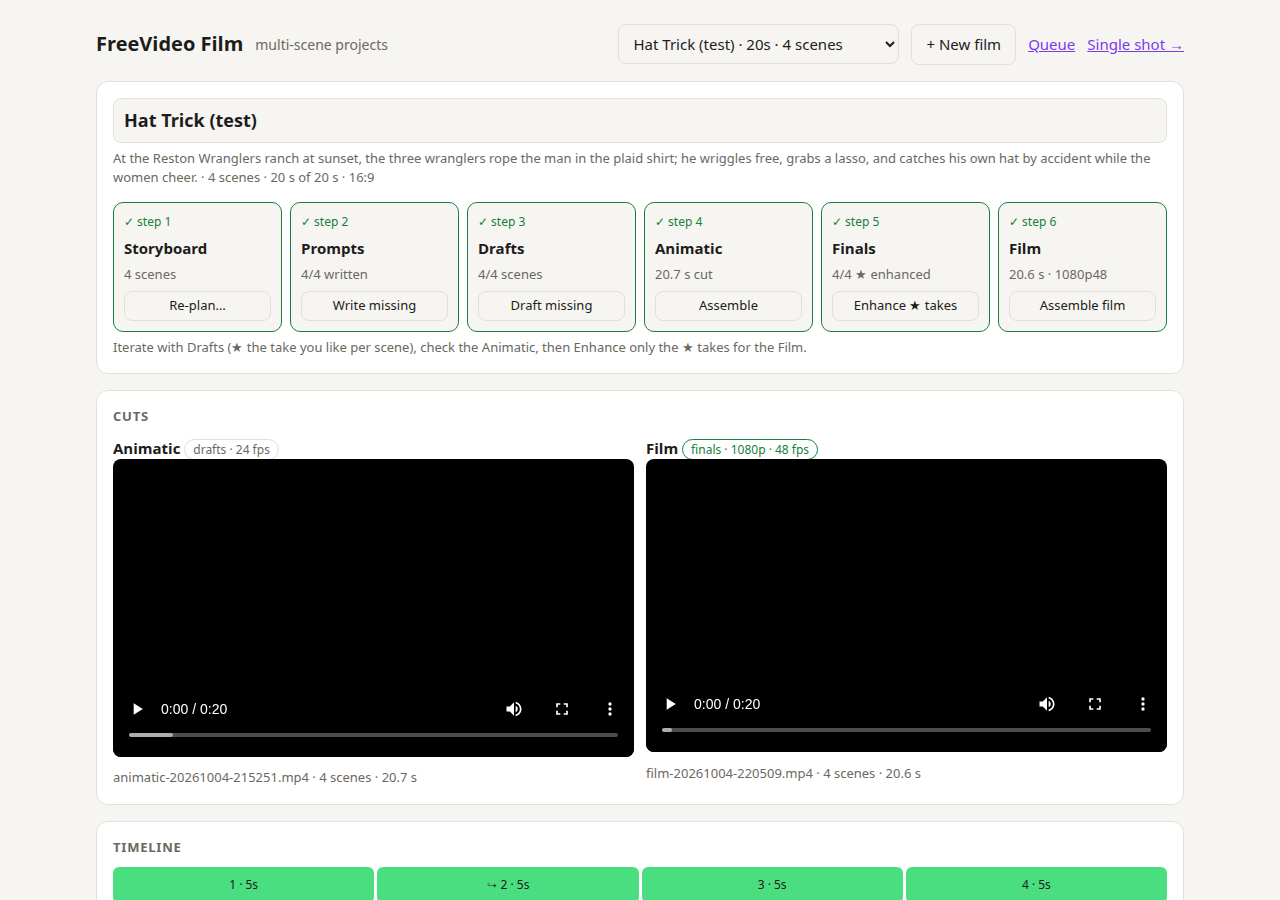
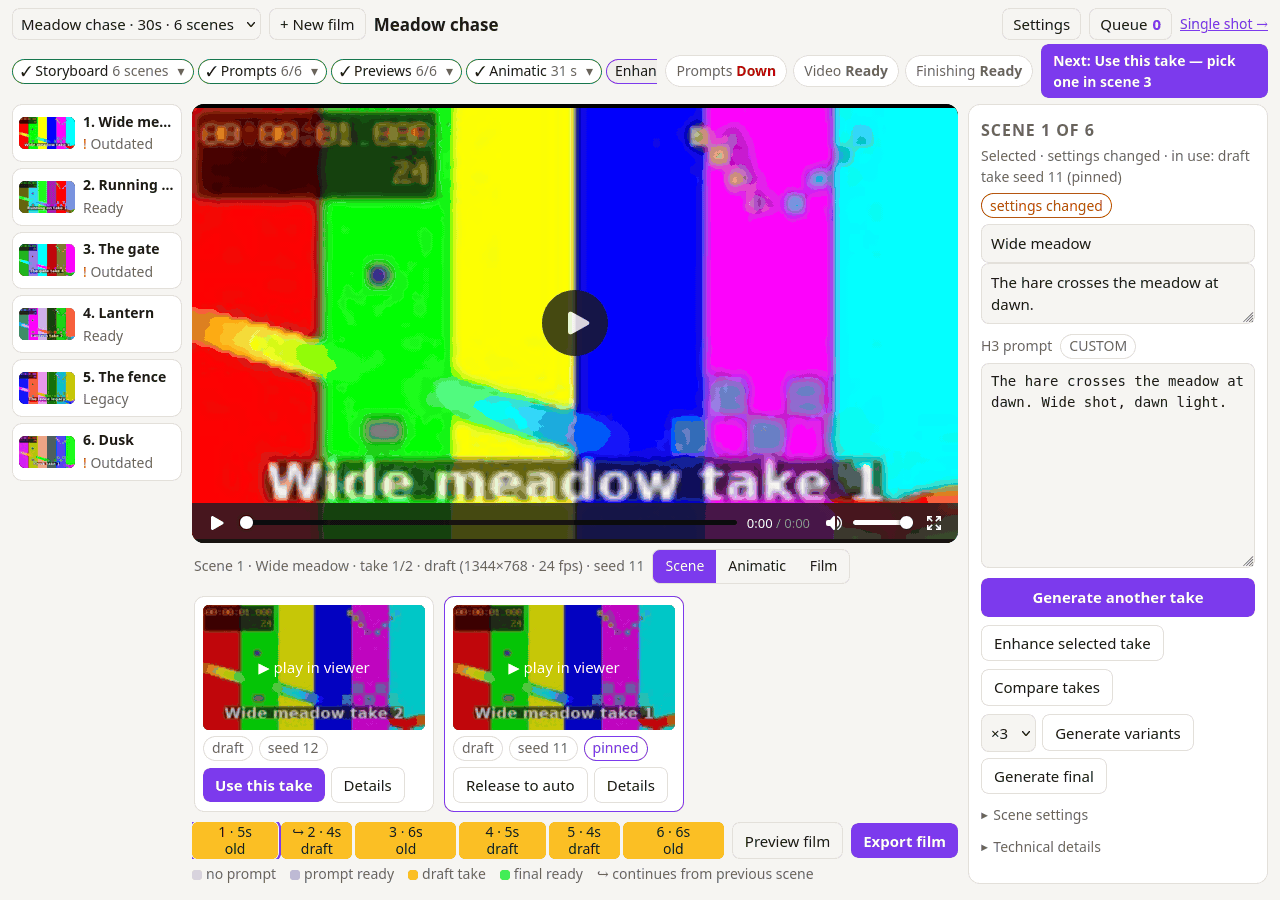
docs: cover the workspace behaviour, refresh the stale eval numbers, regenerate the screenshots from the fixture

diff --git a/tests/make_doc_screenshots.py b/tests/make_doc_screenshots.py
@@ -1,0 +1,159 @@
+#!/usr/bin/env python3
+"""Regenerate the docs screenshots (docs/ui.png, docs/film-editor.png, docs/queue.png).
+
+Headless Firefox through geckodriver (same raw-W3C pattern as the browser_* suites) over
+the fixture film from tests/fixtures/make_fixture.py -- illustrative media, no user
+data. Each shot is 1280x900 and kept under 400 KB. Needs `geckodriver`, `firefox` and
+`ffmpeg` on PATH. Run from the repo root:  python3 tests/make_doc_screenshots.py
+"""
+import base64
+import json
+import os
+import subprocess
+import sys
+import tempfile
+import time
+import urllib.request
+from pathlib import Path
+
+HERE = Path(__file__).resolve().parent
+REPO = HERE.parent
+sys.path.insert(0, str(REPO))
+sys.path.insert(0, str(HERE))
+sys.path.insert(0, str(HERE / 'fixtures'))
+import leak_guard          # noqa: E402
+import project as projects  # noqa: E402
+import make_fixture        # noqa: E402
+
+WEB_PORT, STUB_PORT, DRIVER_PORT = 8227, 8228, 4477
+DOCS = REPO / 'docs'
+
+
+def http(url, body=None):
+    req = urllib.request.Request(url, data=json.dumps(body).encode() if body is not None else None,
+                                 method='POST' if body is not None else 'GET',
+                                 headers={'Content-Type': 'application/json'})
+    with urllib.request.urlopen(req, timeout=60) as r:
+        return json.loads(r.read())
+
+
+class Driver:
+    def __init__(self):
+        self.base = f'http://127.0.0.1:{DRIVER_PORT}'
+        self.proc = leak_guard.spawn(['geckodriver', '--port', str(DRIVER_PORT)],
+                                     stdout=subprocess.DEVNULL, stderr=subprocess.DEVNULL)
+        for _ in range(50):
+            try:
+                http(self.base + '/status')
+                break
+            except Exception:
+                time.sleep(0.2)
+        try:
+            caps = {'capabilities': {'alwaysMatch': {
+                'browserName': 'firefox',
+                'moz:firefoxOptions': {'args': ['-headless']}}}}
+            self.sid = http(self.base + '/session', caps)['value']['sessionId']
+        except Exception:
+            leak_guard.stop(self.proc)
+            raise
+
+    def s(self, path, body=None):
+        r = http(self.base + f'/session/{self.sid}{path}', body if body is not None else {})
+        if isinstance(r.get('value'), dict) and 'error' in r['value']:
+            raise RuntimeError(r['value'].get('message', r['value']['error']))
+        return r.get('value')
+
+    def js(self, script):
+        return self.s('/execute/sync', {'script': script, 'args': []})
+
+    def go(self, url):
+        self.s('/url', {'url': url})
+
+    def wait(self, script, timeout=20):
+        end = time.time() + timeout
+        while time.time() < end:
+            v = self.js('return (' + script + ')')
+            if v:
+                return v
+            time.sleep(0.2)
+        raise RuntimeError(f'timed out waiting for: {script}')
+
+    def shot(self, path):
+        png = base64.b64decode(http(self.base + f'/session/{self.sid}/screenshot')['value'])
+        path.write_bytes(png)
+        if path.stat().st_size > 400 * 1024:          # flat UI + colourful video frames: quantise
+            subprocess.run(['ffmpeg', '-y', '-loglevel', 'error', '-i', str(path),
+                            '-vf', 'palettegen=max_colors=136', str(path) + '.pal.png'], check=True)
+            subprocess.run(['ffmpeg', '-y', '-loglevel', 'error', '-i', str(path),
+                            '-i', str(path) + '.pal.png',
+                            '-lavfi', 'paletteuse=dither=bayer:bayer_scale=5:diff_mode=rectangle',
+                            str(path) + '.q.png'], check=True)
+            os.replace(str(path) + '.q.png', str(path))
+            os.remove(str(path) + '.pal.png')
+        return path.stat().st_size
+
+
+def main():
+    tmp = Path(tempfile.mkdtemp(prefix='director-docshots-'))
+    man = make_fixture.build(tmp)                    # sets projects.ROOT; real ffmpeg media
+    slug = man['slug']
+    stub = leak_guard.spawn([sys.executable, str(HERE / 'stub_comfy.py'),
+                             '--port', str(STUB_PORT), '--root', str(tmp / 'comfy-output')],
+                            stdout=subprocess.DEVNULL, stderr=subprocess.DEVNULL)
+    launcher = ('import sys; sys.path.insert(0, %r); import project; from pathlib import Path; project.ROOT = Path(%r); '
+                'sys.argv = ["web.py", "--port", "%d"]; import runpy; runpy.run_path(%r, run_name="__main__")'
+                % (str(REPO), str(projects.ROOT), WEB_PORT, str(REPO / 'web.py')))
+    web = leak_guard.spawn([sys.executable, '-c', launcher],
+                           env=dict(os.environ, COMFY_URL=f'http://127.0.0.1:{STUB_PORT}',
+                                    COMFY_ROOT=str(tmp / 'comfy-output'),
+                                    DIRECTOR_URL='http://127.0.0.1:1/v1/chat/completions',
+                                    JOBS_DB=str(tmp / 'jobs.db')),
+                           stdout=subprocess.DEVNULL, stderr=subprocess.DEVNULL)
+    d = None
+    shots = []
+    try:
+        for _ in range(50):
+            try:
+                urllib.request.urlopen(f'http://127.0.0.1:{WEB_PORT}/api/projects', timeout=1)
+                break
+            except Exception:
+                time.sleep(0.2)
+        d = Driver()
+        d.s('/window/rect', {'width': 1280, 'height': 986})   # chrome correction toward 900 css px
+
+        d.go(f'http://127.0.0.1:{WEB_PORT}/')
+        d.wait("document.querySelector('h1') !== null")
+        time.sleep(0.6)
+        shots.append(('ui.png', d.shot(DOCS / 'ui.png')))
+
+        d.go(f'http://127.0.0.1:{WEB_PORT}/project?p={slug}')
+        d.wait("document.querySelectorAll('#navigator .navitem').length === 6")
+        time.sleep(1.5)                                      # thumbnails in
+        shots.append(('film-editor.png', d.shot(DOCS / 'film-editor.png')))
+
+        d.go(f'http://127.0.0.1:{WEB_PORT}/queue')
+        d.wait("document.body.innerText.includes('Queue')")
+        time.sleep(0.6)
+        shots.append(('queue.png', d.shot(DOCS / 'queue.png')))
+    finally:
+        if d is not None:
+            try:
+                d.s('/delete', {})
+            except Exception:
+                pass
+            leak_guard.stop(d.proc)
+        leak_guard.stop(web)
+        leak_guard.stop(stub)
+    for name, size in shots:
+        print(f'{name}: {size} bytes')
+    leaks = leak_guard.final_leaks()
+    for pid, cmd in leaks:
+        print(f'LEAK - leftover process {pid}: {cmd[:100]}')
+    oversize = [n for n, s in shots if s >= 400 * 1024]
+    if oversize:
+        print('OVERSIZE:', oversize)
+    return 0 if len(shots) == 3 and not oversize and not leaks else 1
+
+
+if __name__ == '__main__':
+    sys.exit(main())

diff --git a/docs/usage.md b/docs/usage.md
@@ -83,6 +83,19 @@ plus a **style bible** (every character's exact look, the places, palette, camer
 You can edit anything: scene title, seconds, **Cut** or **↪ Continue**, action, and the bible. Edits
 save automatically. Scenes can be added, moved and deleted.
 
+The page is one workspace: the **viewer box** sits at the left of the stage list and stays put while
+you move between stages, so a render never scrolls out of sight; the **stage nav** walks
+idea → prompt → render → compare → select → finishing → cut; **Next action** spells out what this
+film is waiting for and runs it. The header shows save blinks (saving → saved), a **Queue** button
+with a live count, and three **readiness chips** — **Prompts**, **Video**, **Finishing** — that say
+what the machine can do right now and disable exactly the actions that depend on what is missing
+([troubleshooting](troubleshooting.md#readiness)).
+
+Edits carry a revision. If the film changes while you are editing — another tab, or a job recording
+a take — the save stops with **"changed elsewhere"**: **Reload** reads the newer film, **Keep mine**
+re-applies only the fields you actually touched. A save can never silently overwrite a take another
+process recorded.
+
 | Step | What it does | Time (5–10 s scenes) |
 |---|---|---|
 | ① Storyboard | Plans the scenes. **Re-plan** replaces all of them. | ~20 s |
@@ -95,6 +108,16 @@ save automatically. Scenes can be added, moved and deleted.
 Per scene: **Write prompt**, **Draft**, **Final**, **✨ Enhance ★**, and **☆ choose** on any take.
 Choosing pins that take explicitly (it becomes the ★): later takes never replace it. **auto** on the
 chosen take releases the pin, and a scene that was never chosen simply follows its latest take.
+
+**Compare takes** plays two takes of the scene side by side against one shared bar, so choosing is
+about the shot, not about clicking two players. **Status is in words, never colour alone**: a scene
+says **nothing generated yet**, **Ready**, **Selected** (you starred a take, which auto-selection
+will not override), or **outdated · <what changed>** — one of *prompt changed*, *references
+changed*, *settings changed*, *continuity outdated*, *instructions changed*, *finishing changed*,
+plus *provenance unavailable* for takes that predate the take records. When an earlier scene's cut
+moved, the affected scenes say so too. The **Queue** drawer (header button) lists this film's jobs
+first with per-job queued and running times, then everything else ComfyUI holds; unknown jobs carry
+Reconcile / Dismiss / Retry there as well.
 
 **Continuity**
 
@@ -109,9 +132,19 @@ chosen take releases the pin, and a scene that was never chosen simply follows i
   under the scenes' sound and dialogue, and faded out. Without a track, the film keeps the scenes' own sound.
 - Every cut gets 30 ms audio fades, and the mix is normalised to −14 LUFS.
 
+**Finishing settings** (project page): what happens to a take after it renders. **Upscaling** —
+Off, 720, Full HD 1080, or 4K (needs GPU headroom); **Frame interpolation** — Off, ×2, ×4;
+**Encoding quality** — High (CRF 16), Standard (CRF 20), Smaller (CRF 24) or a Custom CRF of your
+own (12–28, lower is better picture and bigger file). One place decides the frame rate for Enhance,
+Final and the film cut, so they can never disagree; changing any of it flags the affected takes
+**finishing changed** until they are re-cut. **Reset to defaults** returns to Full HD, ×2, CRF 16.
+
 **Files** in `projects/<name>/`: `project.json`, `refs/`, `frames/` (handoff frames), `music.*`,
 `animatic-*.mp4`, `film-*.mp4`. Takes stay in ComfyUI's output folder. Design notes:
 [MULTISCENE-PLAN.md](../MULTISCENE-PLAN.md).
+
+The old single-column editor stays at **/project/classic** as a fallback while the workspace page
+earns its keep: it gets no new features, and it will be removed once nobody needs it.
 
 ## Command line
 

diff --git a/README.md b/README.md
@@ -14,6 +14,12 @@ idea + images ──► Director UI :8192 ──► director model (local vision
 The director uses the official MiniMax-H3 `h3-prompt-writing` skill (`skill/`, pinned copy) as the
 system prompt, and talks to any local OpenAI-compatible **vision** model.
 
+What the workspace page adds over the classic editor: durable jobs that survive a restart
+(never a silent resubmit), a queue drawer with honest per-job times and
+Reconcile/Dismiss/Retry for unknown jobs, three readiness chips that gate exactly the actions
+they gate, take comparison, explicit take selection, per-project finishing settings, and a
+continuity/outdated flag per scene.
+
 ## Requirements
 
 - Python 3.10+ and `ffmpeg` on `PATH`
@@ -59,12 +65,14 @@ a logline, and you draft, pick, and finish scenes step by step:
 | `project.py`, `project.html` | Multi-scene film projects (the workspace page; `/project/classic` keeps the old single-column page as `project-classic.html`) |
 | `enhance.py` | SeedVR2 upscale, RIFE 48 fps, H.264 encode |
 | `h3check.py` | H3 format checks used by the retry loop and `eval.py` |
-| `readiness.py` | Prompt / video / finishing health probes behind the header chips |
+| `jobs_db.py` | Durable sqlite job store (schema-versioned) behind the queue and recovery pass |
+| `finishing.py` | The finishing stages and the one frame-rate policy (presets, CRF, fps) |
 | `skill/` | Pinned MiniMax-H3 prompt-writing skill |
 | `eval/` | Director-model A/B: case set (`eval/cases.json`), fixture README, per-label outputs (`results.json`) |
 | `eval/make_fixtures.py` | Deterministic fixture images for the portable eval cases |
 | `rescore.py` | Re-score saved `eval/` outputs with today's `h3check.py` (writes `eval/<label>/rescored.json`) |
 | `eval_compare.py` | Side-by-side diff of two eval labels, gated on matching validator/case-set versions |
+| `tests/` | unittest suites (`test_*.py` fast; `test_restart_acceptance` slow behind `DIRECTOR_SLOW_SUITES=1`), headless-Firefox suites (`browser_*.py`), `leak_guard.py` + `test_zz_no_leaks.py` (no process may outlive a run), fixtures and `stub_comfy.py` |
 | `pilot.py`, `pilot/scenes.json` | M6 pilot: 3 scenes x 2 seeds x 2 prompt arms, rendered one at a time, blinded review and report |
 | `docs/` | Documentation and screenshots |
 

diff --git a/docs/troubleshooting.md b/docs/troubleshooting.md
@@ -5,6 +5,8 @@
 | UI or CLI says **no director model is up** | None of the default endpoints answered. Start a director model, or point at one with `DIRECTOR_URL` and `DIRECTOR_MODEL` (see [usage](usage.md#configuration)). |
 | UI says **ComfyUI is unreachable** | Start the FreeVideo ComfyUI workspace on `127.0.0.1:8190`. Writing prompts works without it; rendering does not. |
 | A job shows **state unknown** after a restart | The director could not prove what ComfyUI is doing with it; nothing was resubmitted and the scene stays reserved. Use **Reconcile** to ask ComfyUI again. If the submit provably never arrived, **Retry…** re-submits the recorded request once, after re-checking ComfyUI first; if ComfyUI had acknowledged the submit, resubmitting on a guess could double the GPU work — reconcile or dismiss instead ([usage](usage.md#web-ui)). |
+| A save stops with **changed elsewhere** | The film moved on while you were editing — another tab, or a job recorded a take. **Reload** reads the newer film; **Keep mine** re-applies only the fields you actually touched. Delta saves mean a save can never clobber a take or a field you did not edit. |
+| Right after a restart an unfinished job seems to do nothing | The director is re-checking ComfyUI for every unfinished job. If ComfyUI is not up yet, the rows keep their state (**ComfyUI not reachable yet**) and the reconcile pass tries again once it answers — nothing is lost or resubmitted in the meantime. |
 | Out of memory, or the engine won't start | Something else is using the render GPU. Check `nvidia-smi`. |
 | A Final fails at **Upscale** with out of memory | SeedVR2 needs about 17 GB at 1080p. Check nothing else is on the GPU. Keep `decode_tiled: True` in `enhance.py` (untiled decode runs out of memory at 1080p on 32 GB), or lower `batch_size` (21 → 13; it must be 4n+1). Then retry with **Enhance this take**: the render is kept. |
 | Vertical bars in **VLC**, clean in the browser | VLC's hardware decoding. Tools → Preferences → Input/Codecs → Hardware-accelerated decoding → Disable. If that doesn't help, set Video → Output → OpenGL. The file is fine. |

diff --git a/docs/best-practices.md b/docs/best-practices.md
@@ -24,8 +24,10 @@ For a first frame, crop the photo to just the people you want, at 16:9.
 
 ## Choosing a director model
 
-In a 6-case, 2-run A/B (`eval/`), both models passed the H3 format checks almost every time
-(Qwen3.8-27B 92/92, Qwen3.6-35B-A3B 91/92).
+In a 6-case, 2-run A/B (`eval/`), both models pass the H3 format checks essentially always:
+re-scored under today's stricter checks, Qwen3.8-27B 242/242 and Qwen3.6-35B-A3B 237/242
+(92/92 and 91/92 under the older ones). Counts compare only over the same validator and case set
+(`rescore.py`, `eval_compare.py`), and a failed model call counts as a failing row.
 
 | | Qwen3.8-27B | Qwen3.6-35B-A3B |
 |---|---|---|
